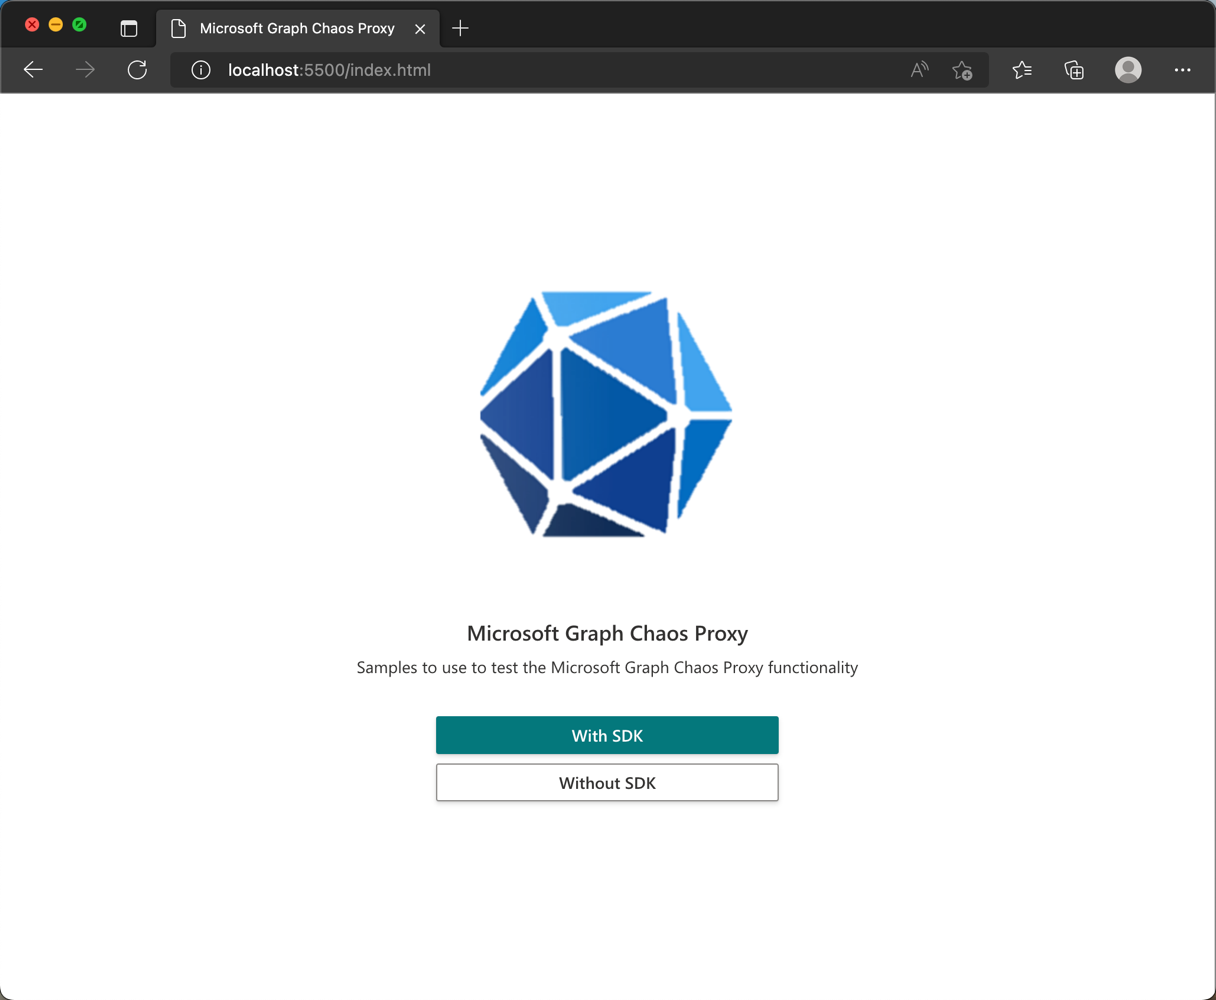
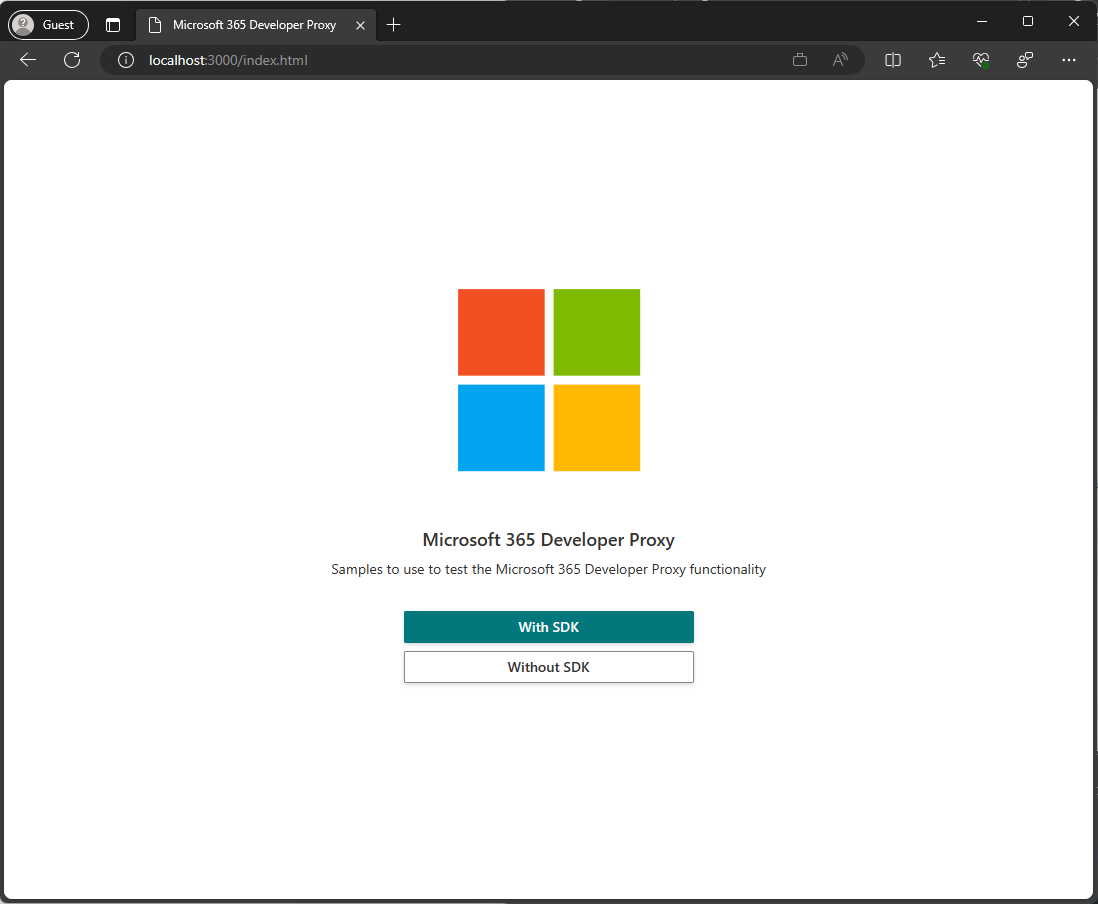
Update sample app after rename (#274)
* Replace hero image

* Update samples screenshot

diff --git a/samples/nosdk.html b/samples/nosdk.html
@@ -50,7 +50,7 @@
                                         <div class="hoo-splashscr-content">
                                             <article class="hoo-splashcard">
                                             <header class="hoo-splashcard-header" role="presentation">
-                                                <img src="img/graph.png" class="hoo-splashcard-img">
+                                                <img src="img/microsoft.png" alt="Microsoft 365" class="hoo-splashcard-img">
                                             </header>
                                             <h1 class="hoo-splashcard-title">
                                                 Microsoft 365 Developer Proxy

diff --git a/samples/withsdk.html b/samples/withsdk.html
@@ -53,7 +53,7 @@
                                         <div class="hoo-splashscr-content">
                                             <article class="hoo-splashcard">
                                             <header class="hoo-splashcard-header" role="presentation">
-                                                <img src="img/graph.png" class="hoo-splashcard-img">
+                                                <img src="img/microsoft.png" alt="Microsoft 365" class="hoo-splashcard-img">
                                             </header>
                                             <h1 class="hoo-splashcard-title">
                                                 Microsoft 365 Developer Proxy

diff --git a/samples/index.html b/samples/index.html
@@ -20,7 +20,7 @@
         <div class="hoo-splashscr-content">
             <article class="hoo-splashcard">
                 <header class="hoo-splashcard-header" role="presentation">
-                    <img src="img/graph.png" alt="Microsoft Graph" class="hoo-splashcard-img">
+                    <img src="img/microsoft.png" alt="Microsoft 365" class="hoo-splashcard-img">
                 </header>
                 <h1 class="hoo-splashcard-title">
                     Microsoft 365 Developer Proxy
